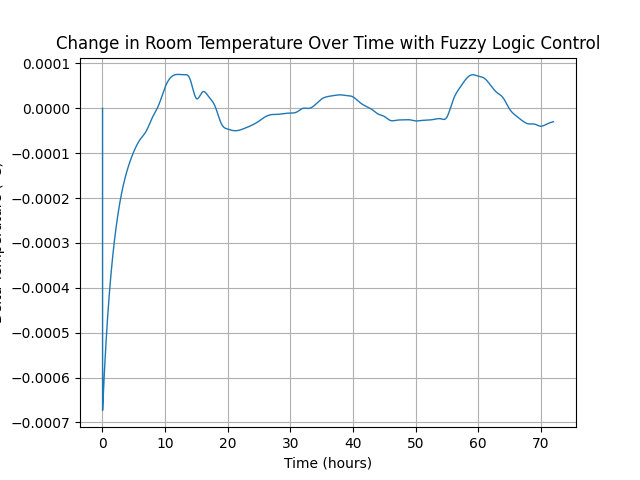
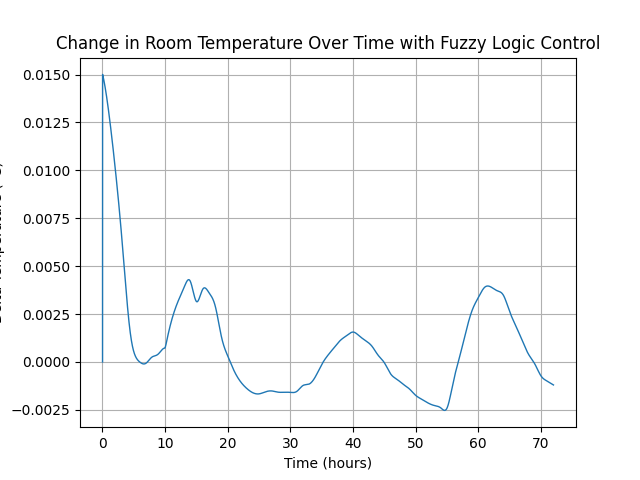
some results

diff --git a/environment_simulator.py b/environment_simulator.py
@@ -31,7 +31,7 @@ def celsius_to_kelvin(temp_c):
 def kelvin_to_celsius(temp_k):
     return temp_k - 273.15
 
-def calc_new_temp_and_hum(temp, humidity, ac_heater_control, hour, step_seconds, ac_heater_max_power=1000):
+def calc_new_temp_and_hum(temp, humidity, ac_heater_control, hour, step_seconds, ac_heater_max_power=1000, wall_heat_loss_factor=1):
     """Calculate the new temperature after applying power for a given time step."""
 
     #ac_heater_max_power = 1000  # in Watts
@@ -48,7 +48,7 @@ def calc_new_temp_and_hum(temp, humidity, ac_heater_control, hour, step_seconds,
     outdoor_temp = outdoor_temp_by_hour(hour)  # in Celsius
     temp_difference = temp - outdoor_temp # in Celsius
 
-    heat_loss = (thermal_conductivity * wall_area * temp_difference) / wall_thickness  # in Celsius
+    heat_loss = wall_heat_loss_factor * (thermal_conductivity * wall_area * temp_difference) / wall_thickness  # in Celsius
 
     sum_power -= heat_loss
 

diff --git a/firstRun.py b/firstRun.py
@@ -37,6 +37,7 @@ times = [0]
 max_time = int(input("Enter the total number of hours to simulate: "))
 
 max_ac_power = float(input("Enter the maximum AC/Heater power (in W): "))
+wall_heat_loss_factor = float(input("Enter the wall heat loss factor: "))
 while cur_time < max_time:
     # Set inputs
     simulator.input['temperature'] = cur_temp
@@ -49,7 +50,7 @@ while cur_time < max_time:
     # Get the output values
     heating_power = simulator.output['ac_heater_power']
 
-    new_data = calc_new_temp_and_hum(cur_temp, cur_hum, heating_power, cur_time, seconds, max_ac_power)
+    new_data = calc_new_temp_and_hum(cur_temp, cur_hum, heating_power, cur_time, seconds, max_ac_power, wall_heat_loss_factor)
     new_temp = new_data['temperature']
     new_hum = new_data['humidity']
 

diff --git a/membership_functions.py b/membership_functions.py
@@ -10,8 +10,8 @@ from universes import universes
 
 temperature = ctrl.Antecedent(universes['temperature'], 'temperature')  # -50 to 50 degrees Celsius
 temperature['freezing'] = 1 - fuzz.trapmf(universes['temperature'], [-20, 0, mm.TEMP_MAX, mm.TEMP_MAX])
-temperature['cold'] = fuzz.trapmf(universes['temperature'], [-20, 0, 7, 13])
-temperature['warm'] = fuzz.trapmf(universes['temperature'], [10, 13, 22, 30])
+temperature['cold'] = fuzz.trapmf(universes['temperature'], [-15, 5, 12, 18])
+temperature['warm'] = fuzz.trapmf(universes['temperature'], [15, 18, 27, 35])
 temperature['hot'] = fuzz.trapmf(universes['temperature'], [22, 32, mm.TEMP_MAX, mm.TEMP_MAX])
 
 humidity = ctrl.Antecedent(universes['humidity'], 'humidity')      # 0 to 100%
